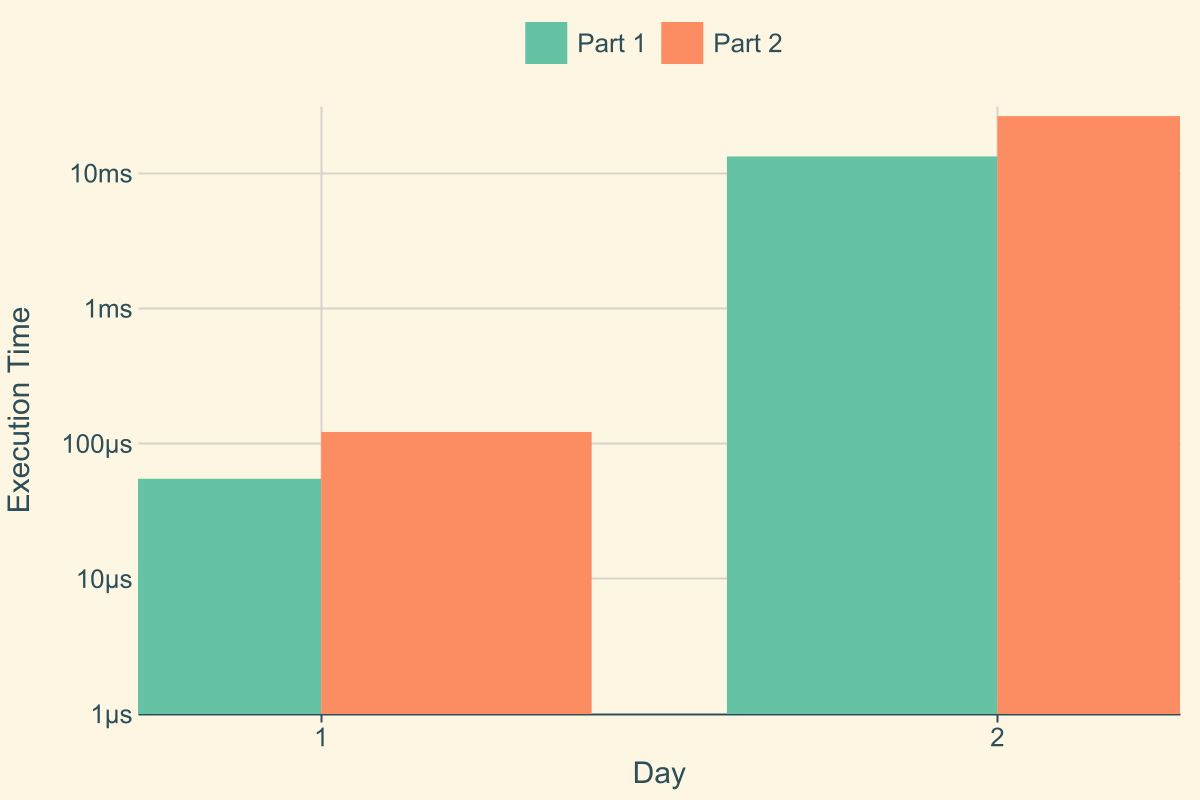
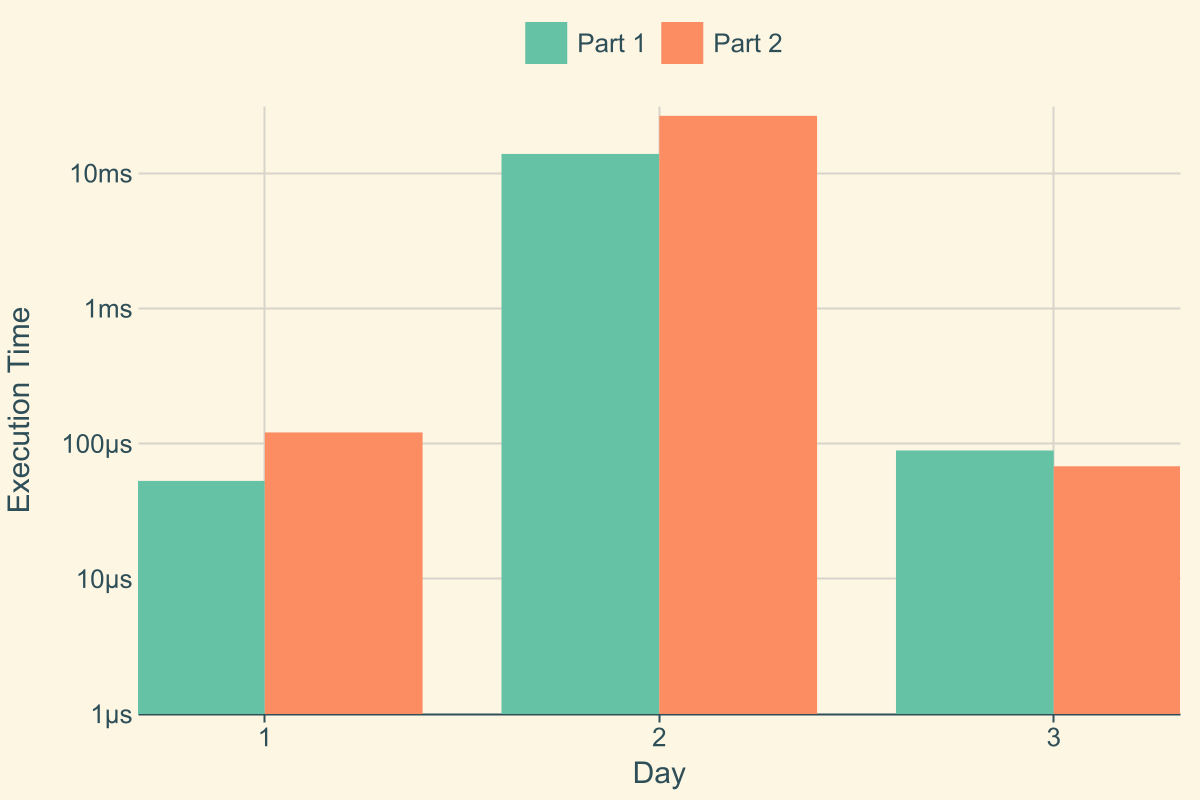
day03

diff --git a/src/day03.rs b/src/day03.rs
@@ -1,50 +1,68 @@
 use crate::harness::Day;
 use crate::harness::Part;
-use std::cmp::max;
 
-pub fn day03() -> Day<i32, i32> {
+pub fn day03() -> Day<u64, u64> {
     Day::new(3, Box::new(Part1 {}), Box::new(Part2 {}))
 }
 
 pub struct Part1;
 
-impl Part<i32> for Part1 {
-    fn expect_test(&self) -> i32 {
+impl Part<u64> for Part1 {
+    fn expect_test(&self) -> u64 {
         357
     }
 
-    fn solve(&self, input: &[String]) -> i32 {
-        parse(input)
-            .iter()
-            .map(|e| {
-                let mut best = 0;
-                for (i1, &e1) in e.iter().enumerate() {
-                    for &e2 in &e[i1 + 1..] {
-                        best = max(best, e1 * 10 + e2);
-                    }
-                }
-                best
-            })
-            .sum::<u32>() as i32
+    fn solve(&self, input: &[String]) -> u64 {
+        solve(parse(input), 2)
     }
 }
 
 pub struct Part2;
 
-impl Part<i32> for Part2 {
-    fn expect_test(&self) -> i32 {
-        todo!()
+impl Part<u64> for Part2 {
+    fn expect_test(&self) -> u64 {
+        3121910778619
     }
 
-    fn solve(&self, input: &[String]) -> i32 {
-        todo!()
+    fn solve(&self, input: &[String]) -> u64 {
+        solve(parse(input), 12)
     }
 }
 
-fn parse(input: &[String]) -> Vec<Vec<u32>> {
+fn solve(vec: Vec<Vec<u64>>, depth: usize) -> u64 {
+    vec.iter().map(|e| solve_bank(e, depth)).sum()
+}
+
+fn solve_bank(bank: &[u64], depth: usize) -> u64 {
+    let mut result_joltage = 0;
+    let mut min_index = 0;
+
+    for remaining_digits in (1..=depth).rev() {
+        let mut best_joltage_digit = 0;
+        let mut best_current_index = 0;
+        for (current_index, &current_joltage_digit) in bank
+            .iter()
+            .enumerate()
+            .skip(min_index)
+            .take(bank.len() - remaining_digits - min_index + 1)
+        {
+            if current_joltage_digit > best_joltage_digit {
+                best_joltage_digit = current_joltage_digit;
+                best_current_index = current_index;
+            }
+        }
+
+        result_joltage = 10 * result_joltage + best_joltage_digit;
+        min_index = best_current_index + 1;
+    }
+
+    result_joltage
+}
+
+fn parse(input: &[String]) -> Vec<Vec<u64>> {
     input
         .iter()
         .filter(|e| !e.is_empty())
-        .map(|e| e.chars().map(|e| e.to_digit(10).unwrap()).collect())
+        .map(|e| e.chars().map(|e| e.to_digit(10).unwrap() as u64).collect())
         .collect()
 }
